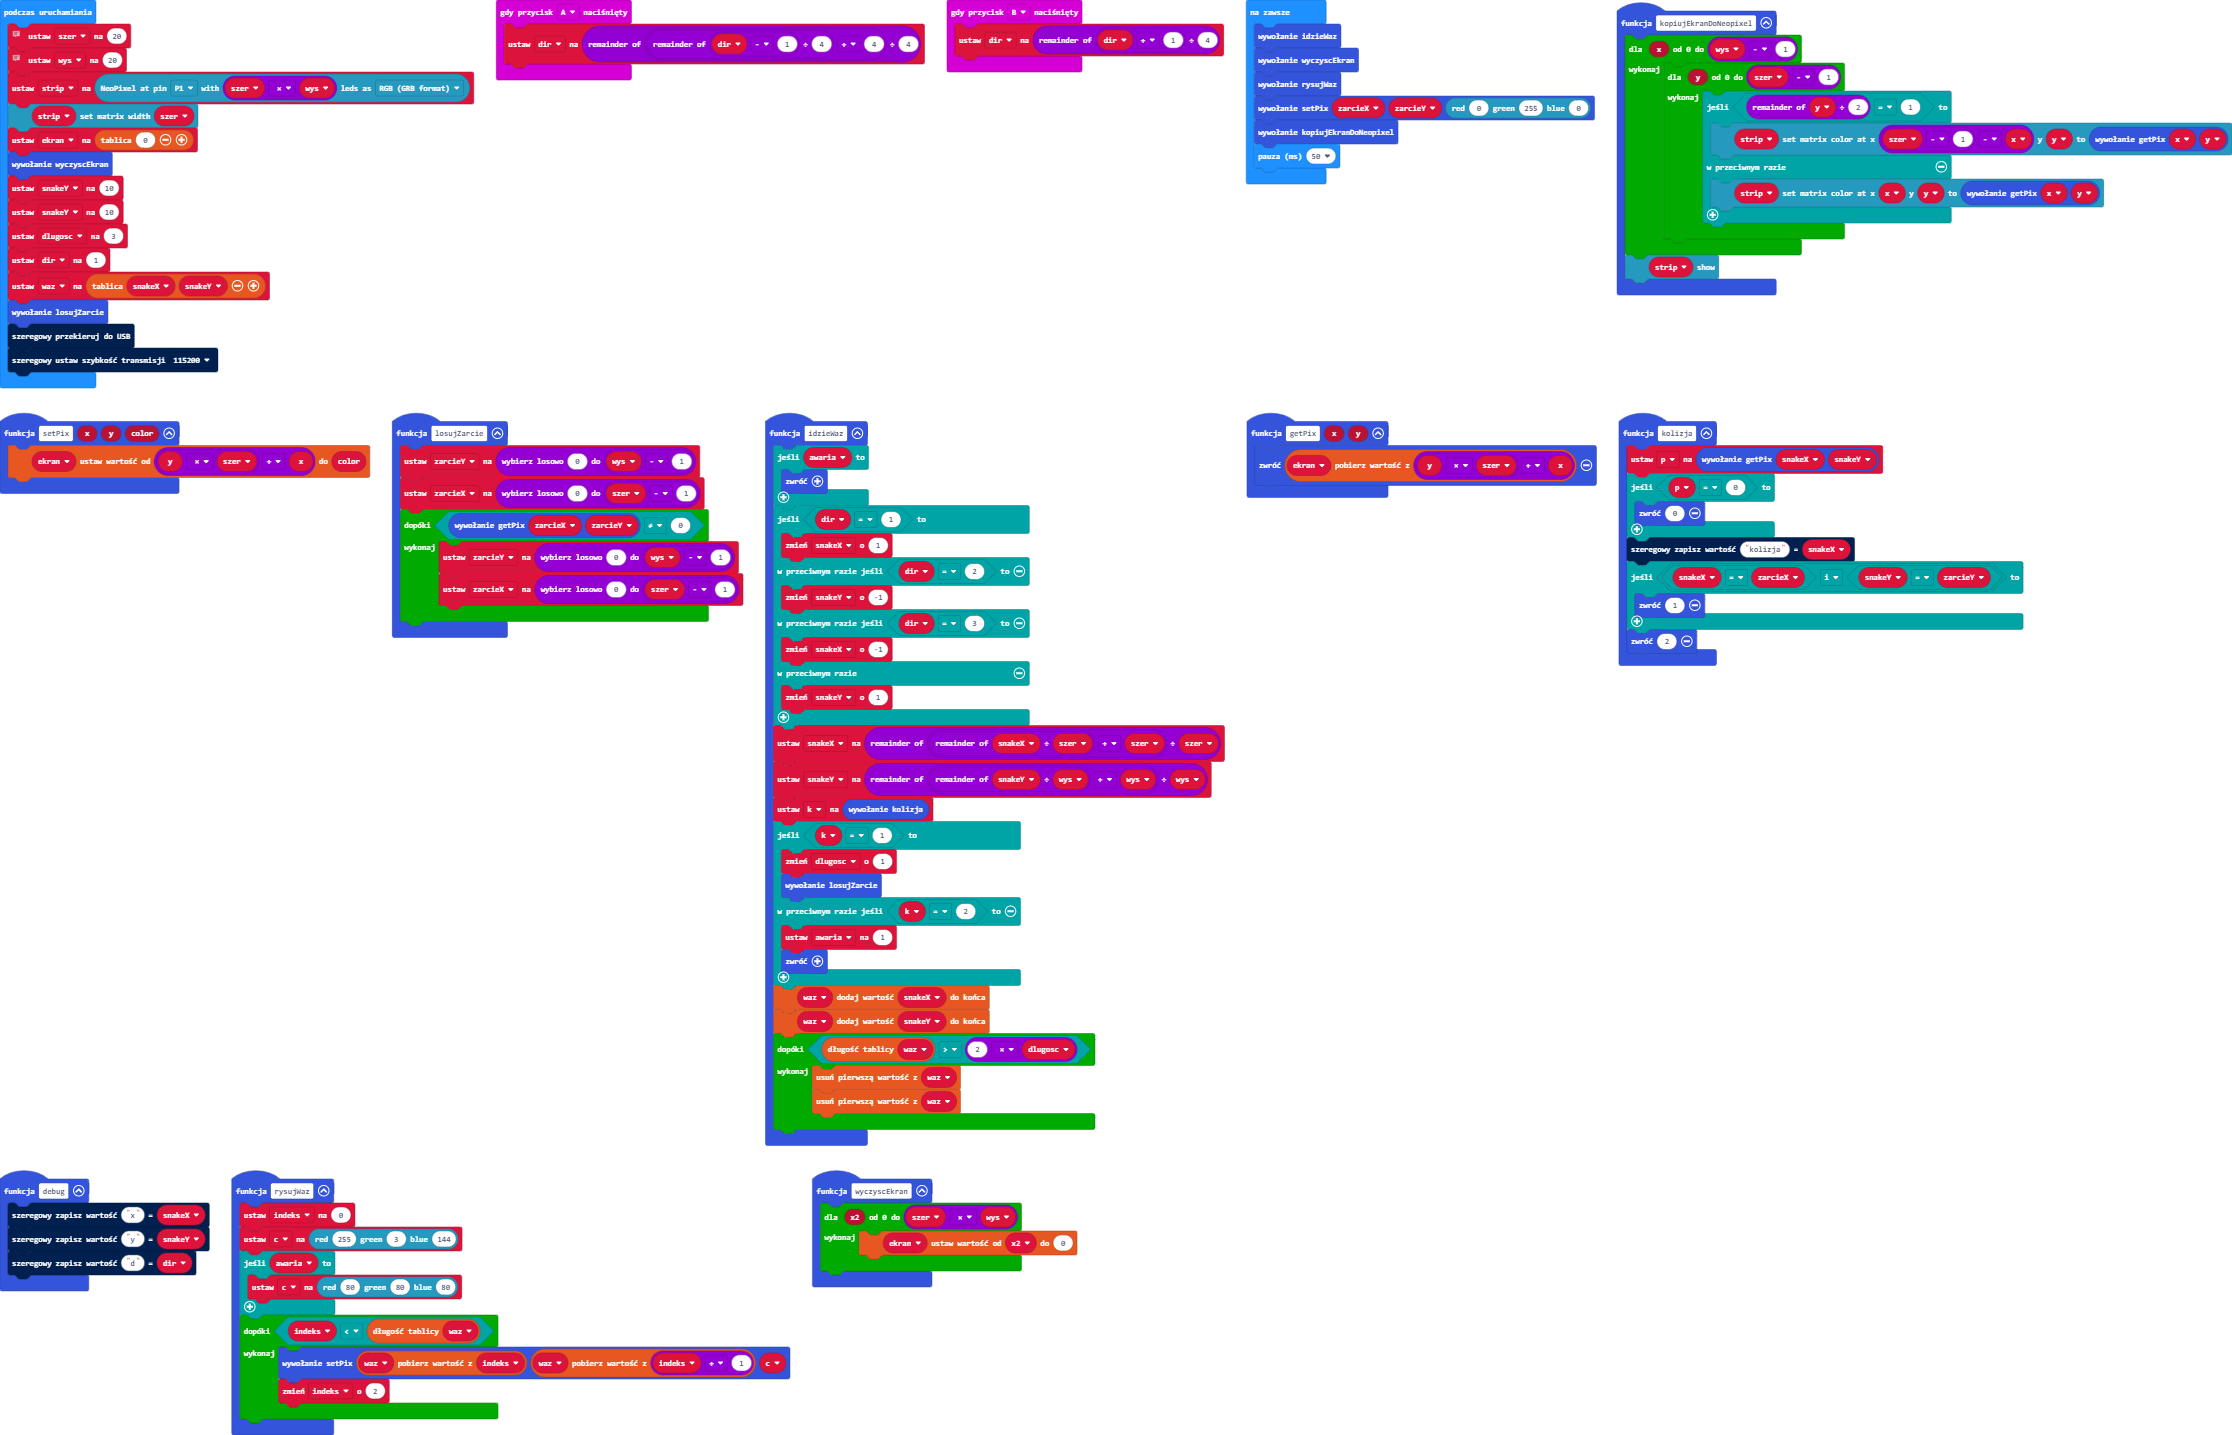
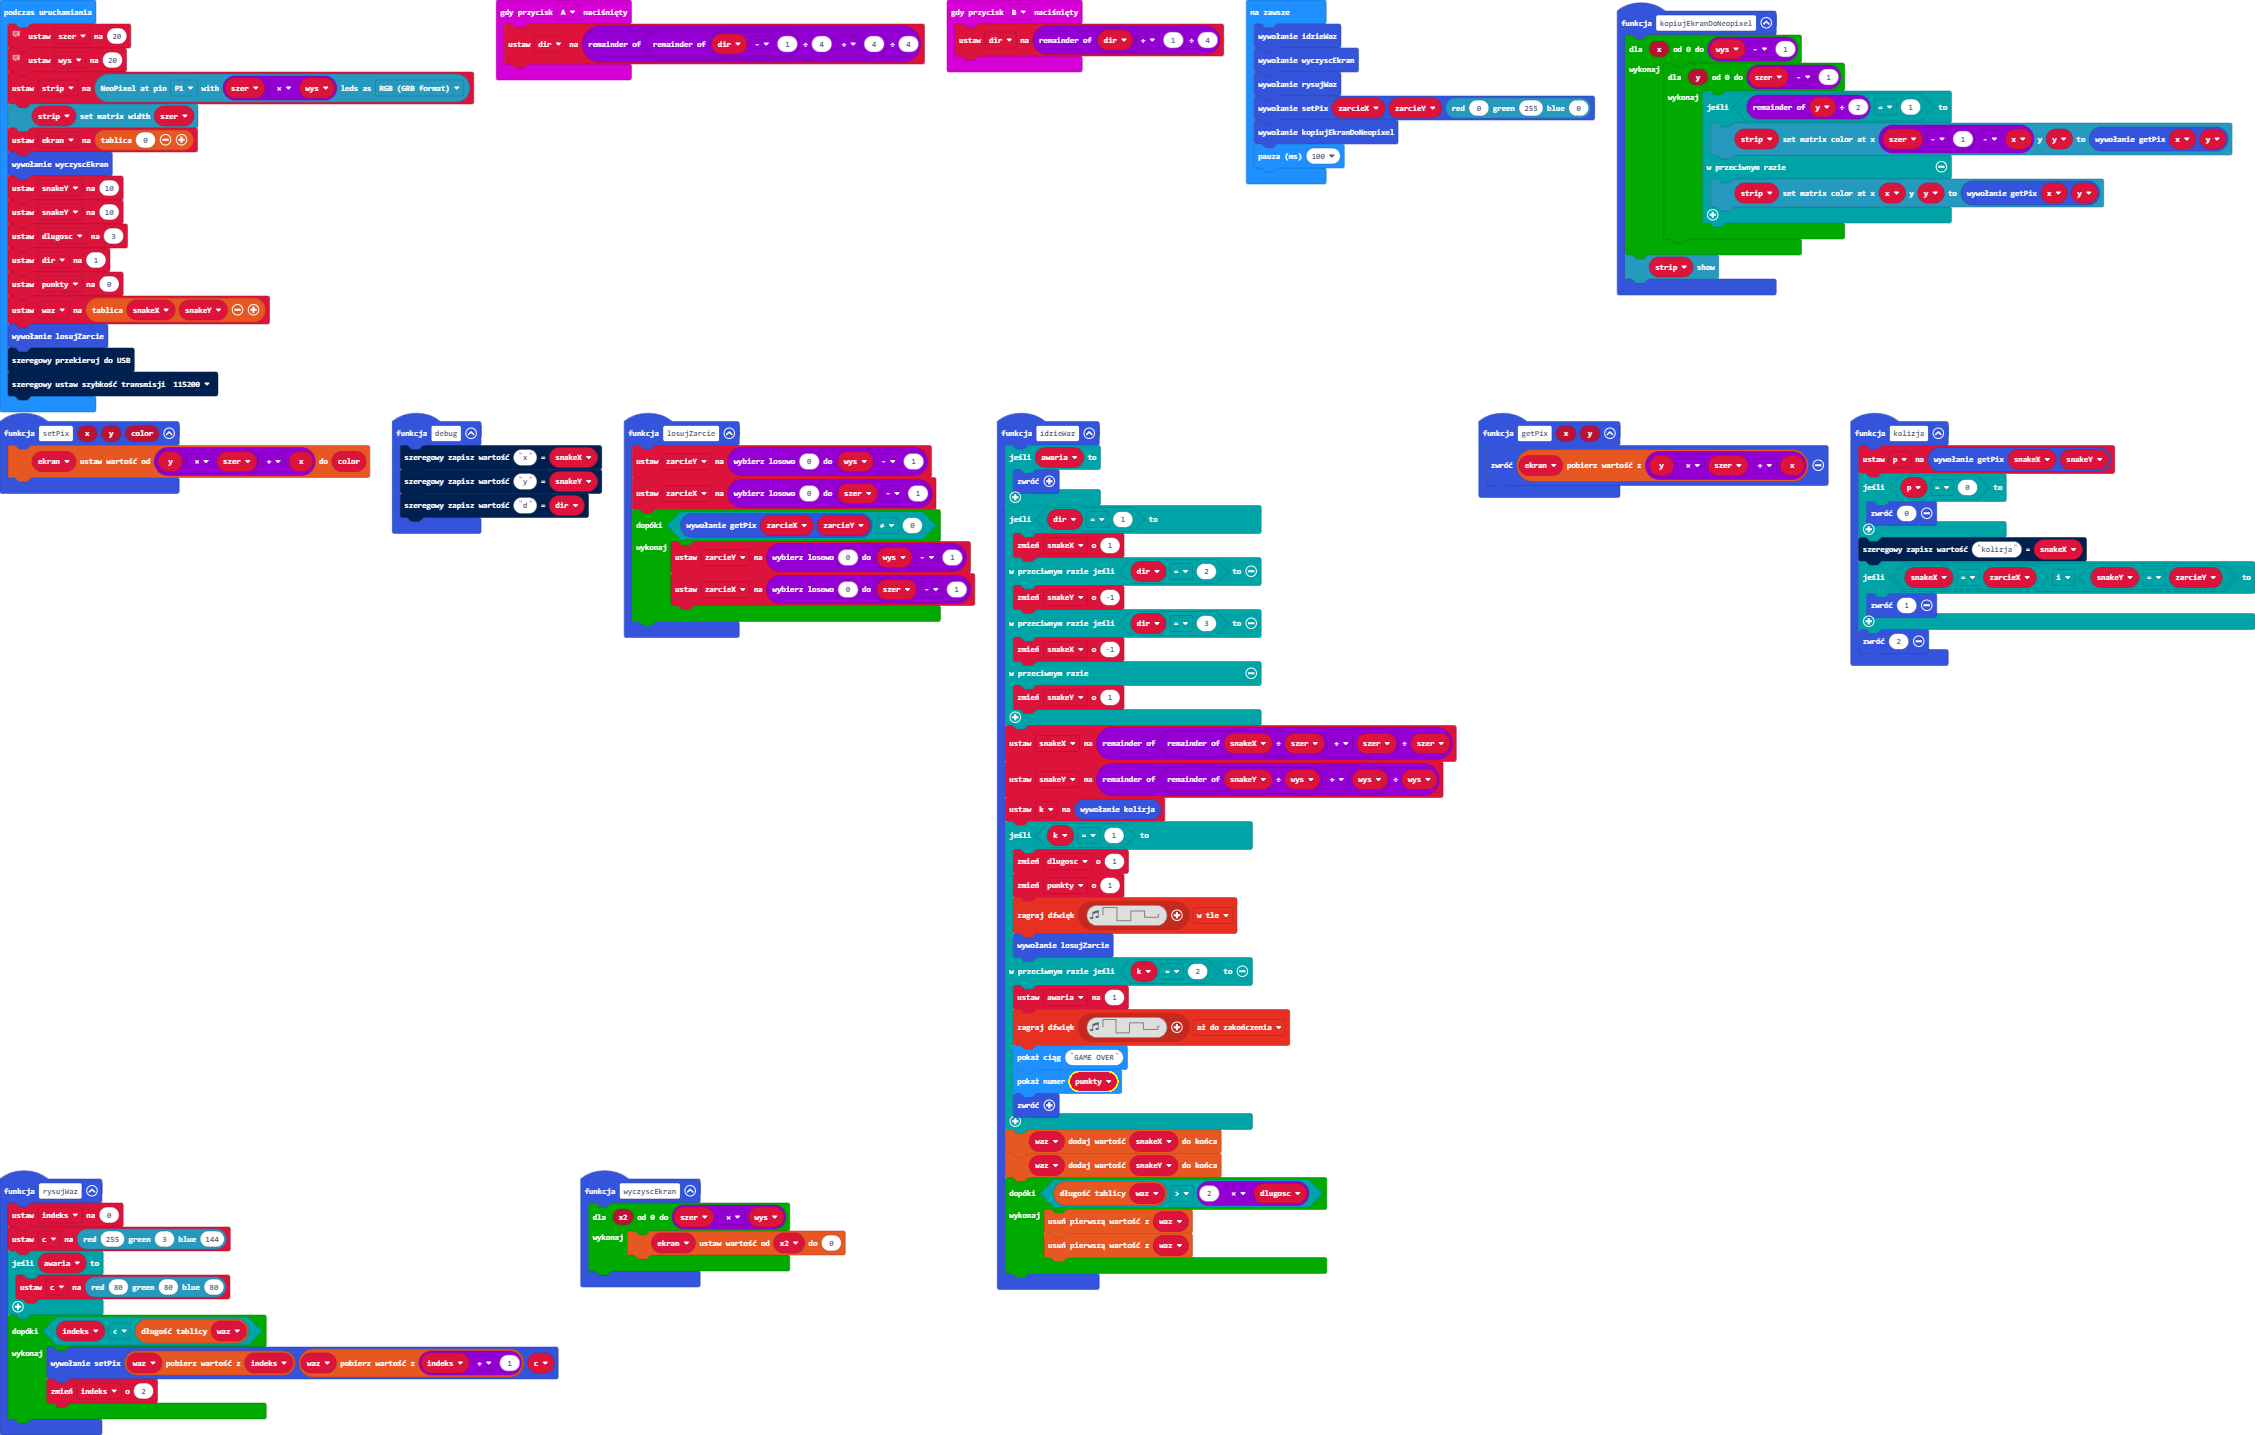
Aktualizacja pxt.json, main.blocks, main.ts

diff --git a/main.ts b/main.ts
@@ -31,9 +31,14 @@ function idzieWaz () {
     k = kolizja()
     if (k == 1) {
         dlugosc += 1
+        punkty += 1
+        music.playSoundEffect(music.createSoundEffect(WaveShape.Square, 400, 600, 255, 0, 100, SoundExpressionEffect.Warble, InterpolationCurve.Linear), SoundExpressionPlayMode.InBackground)
         losujZarcie()
     } else if (k == 2) {
         awaria = 1
+        music.playSoundEffect(music.createSoundEffect(WaveShape.Square, 775, 1, 255, 0, 500, SoundExpressionEffect.None, InterpolationCurve.Linear), SoundExpressionPlayMode.UntilDone)
+        basic.showString("GAME OVER")
+        basic.showNumber(punkty)
         return
     }
     waz.push(snakeX)
@@ -101,6 +106,7 @@ let k = 0
 let awaria = 0
 let snakeX = 0
 let waz: number[] = []
+let punkty = 0
 let dir = 0
 let dlugosc = 0
 let snakeY = 0
@@ -120,6 +126,7 @@ snakeY = 10
 snakeY = 10
 dlugosc = 3
 dir = 1
+punkty = 0
 waz = [snakeX, snakeY]
 losujZarcie()
 serial.redirectToUSB()
@@ -130,5 +137,5 @@ basic.forever(function () {
     rysujWaz()
     setPix(zarcieX, zarcieY, neopixel.rgb(0, 255, 0))
     kopiujEkranDoNeopixel()
-    basic.pause(50)
+    basic.pause(100)
 })
